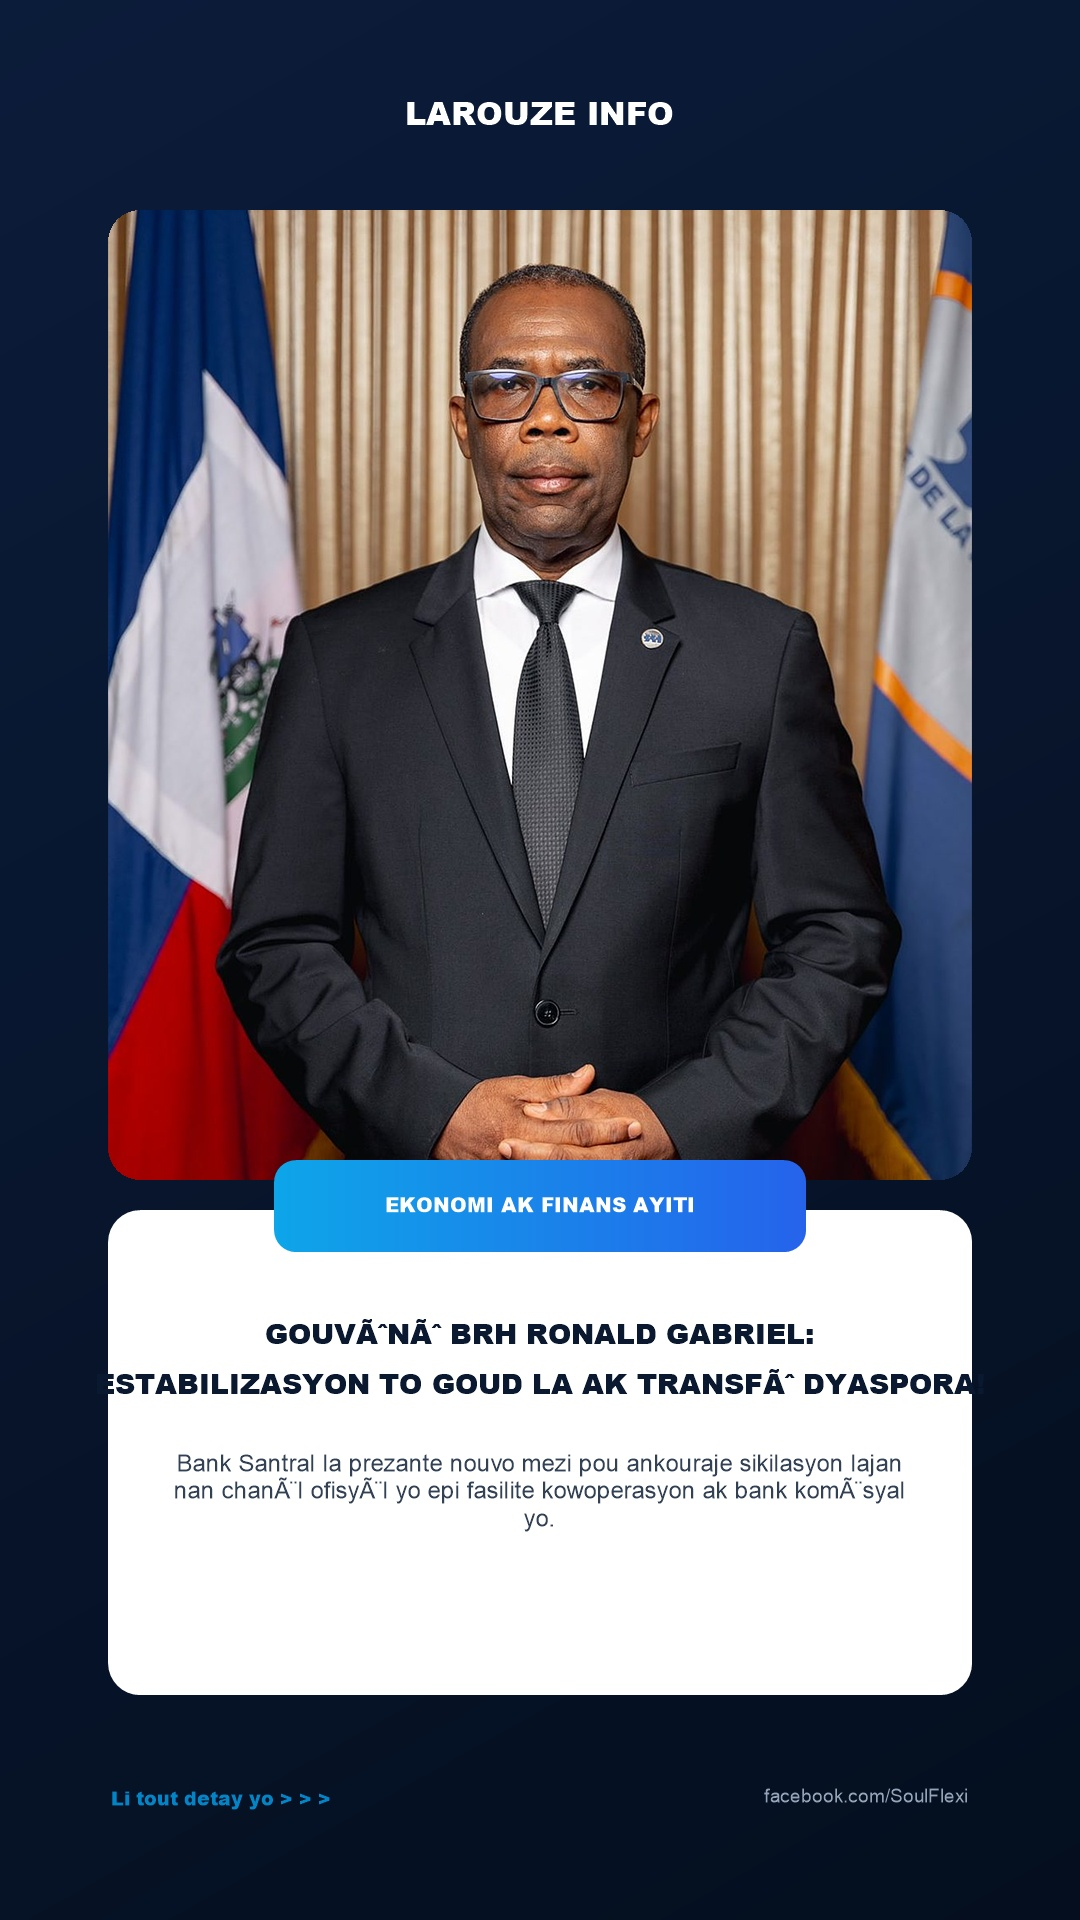
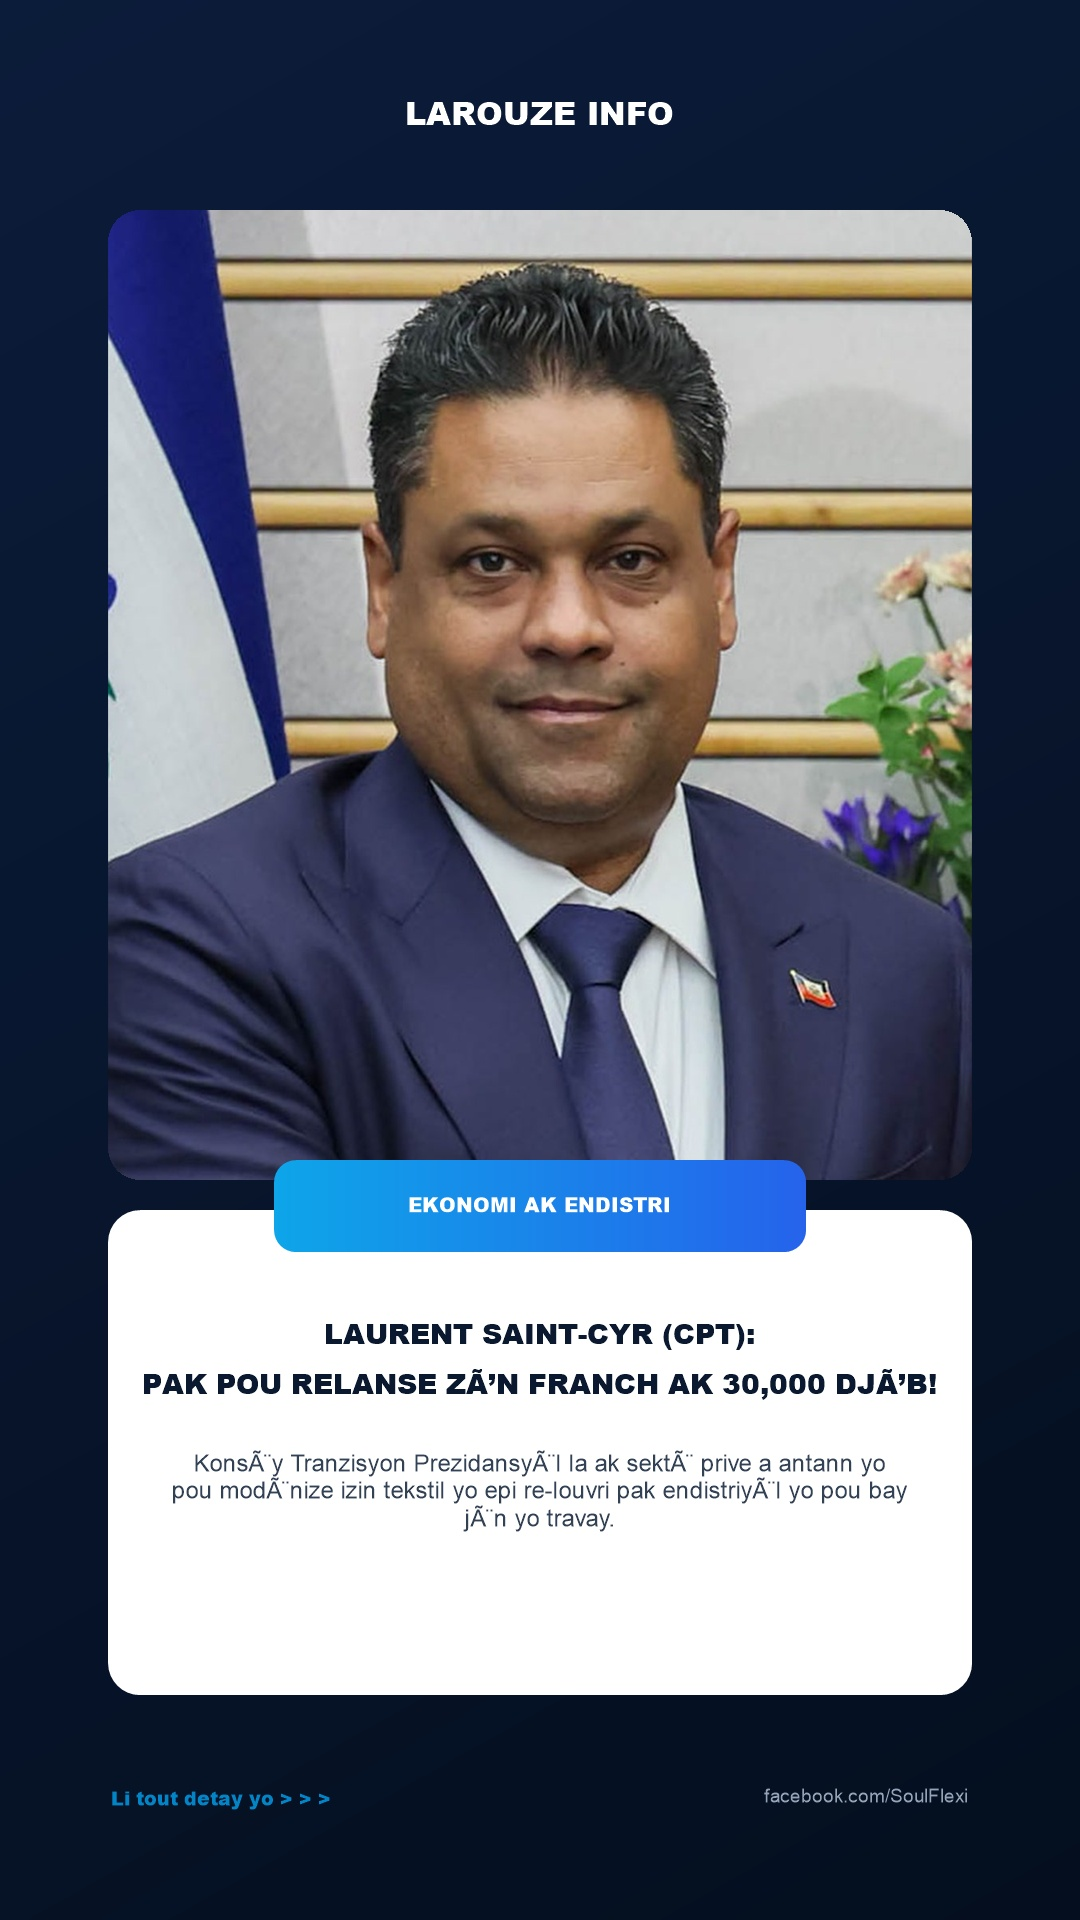
🚀 Deplwaman Lò 8: Afish HD, Tèks Kreyòl ak Sit Wèb Mobil Larouze INFO

diff --git a/index.html b/index.html
@@ -143,21 +143,21 @@
         <img src="posts/post_1/afish.jpg" alt="Afish 1" loading="lazy" />
       </div>
       <div class="card-body">
-        <h3 class="card-title">GOUVÈNÈ BANK SANTRAAL AYITI A ANONSE MEZI ESTRATEJIK POU ESTABILIZE TO CHANJ LA AK PWOTEJE LAJAN TRANSFÈ DYASPORA YO!</h3>
-        <p class="card-desc">Gouvènè Bank Repiblik d Ayiti (BRH), Ronald Gabriel, fè konnen enstitisyon an ap mete tout mekanis an plas pou kenbe estabilite to goud la fas ak dola ameriken an. Li souliye nesesite pou tout lajan transfè k ap rantre nan peyi a sikile nan sikwi fòmèl la pou pèmèt fanmi yo jwenn tout valè lajan yo san presyon move pratik sou mache a.</p>
+        <h3 class="card-title">LAURENT SAINT-CYR AK SEKTÈ PRIVE A SIYEN YON GWO PWOJÈ POU RELANSE ZÒN FRANCH YO EPI KREYE PLIS PASE 30,000 NOUVO DJÒB!</h3>
+        <p class="card-desc">Manm Konsèy Tranzisyon Prezidansyèl la (CPT), Laurent Saint-Cyr, anonse yon gwo patenarya estratejik ant leta ak envestisè nasyonal kou entènasyonal pou bay pak endistriyèl yo yon nouvo souf. Pwogram sa a vize re-louvri faktori ki te fèmen yo epi garanti sekirite travayè yo.</p>
         <div class="card-actions">
           <button class="btn btn-copy" onclick="copyText(1)">📋 KOPYE TÈKS LA</button>
           <a class="btn btn-dl" href="posts/post_1/afish.jpg" download="Larouze_Post_1.jpg">📥 TELECHAJE AFISH</a>
         </div>
-        <textarea id="text-1" class="hidden-text">📌 GOUVÈNÈ BANK SANTRAAL AYITI A ANONSE MEZI ESTRATEJIK POU ESTABILIZE TO CHANJ LA AK PWOTEJE LAJAN TRANSFÈ DYASPORA YO!
+        <textarea id="text-1" class="hidden-text">📌 LAURENT SAINT-CYR AK SEKTÈ PRIVE A SIYEN YON GWO PWOJÈ POU RELANSE ZÒN FRANCH YO EPI KREYE PLIS PASE 30,000 NOUVO DJÒB!
 
-Gouvènè Bank Repiblik d Ayiti (BRH), Ronald Gabriel, fè konnen enstitisyon an ap mete tout mekanis an plas pou kenbe estabilite to goud la fas ak dola ameriken an. Li souliye nesesite pou tout lajan transfè k ap rantre nan peyi a sikile nan sikwi fòmèl la pou pèmèt fanmi yo jwenn tout valè lajan yo san presyon move pratik sou mache a.
+Manm Konsèy Tranzisyon Prezidansyèl la (CPT), Laurent Saint-Cyr, anonse yon gwo patenarya estratejik ant leta ak envestisè nasyonal kou entènasyonal pou bay pak endistriyèl yo yon nouvo souf. Pwogram sa a vize re-louvri faktori ki te fèmen yo epi garanti sekirite travayè yo.
 
-Gabriel envite bank komèsyal yo travay koudakoud ak BRH pou fasilite kredi pou ti ak mwayen antrepriz yo, sa ki ka ede kreye plis travay lokal epi bese enflasyon an.
+Saint-Cyr fè konnen se sèlman lè jèn yo jwenn bonjan travay ak estabilite ekonomik peyi a ap ka soti nan kriz sa a, pandan gouvènman an ap negosye pou pwolonje avantaj komèsyal HOPE/HELP yo.
 
-Kisa ou panse sou desizyon sa a pou ekonomi peyi a? Pataje opinyon w anba a!
+Èske w panse relans izin yo ka ede ekonomi an reprann fòs byen vit? Di nou sa w panse!
 
-👉 Pou tout gwo nouvèl sou ekonomi ak finans Ayiti, swiv Larouze INFO sou facebook.com/SoulFlexi!</textarea>
+👉 Swiv tout gwo devlopman sou travay ak ekonomi Ayiti sou paj facebook.com/SoulFlexi!</textarea>
       </div>
     </div>
   
@@ -167,21 +167,21 @@ Kisa ou panse sou desizyon sa a pou ekonomi peyi a? Pataje opinyon w anba a!
         <img src="posts/post_2/afish.jpg" alt="Afish 2" loading="lazy" />
       </div>
       <div class="card-body">
-        <h3 class="card-title">PREMYE MINIS GASTON BROWNE MANDE GRAN PUISANS YO ANILE DÈT KLIMATIK YO EPI ANKOURAJE KONEKSYON AERYEN NAN KARAYIB LA!</h3>
-        <p class="card-desc">Lidè Antigua ak Barbuda a, Gaston Browne, lanse yon gwo pledwaye devan kominote entènasyonal la pou mande jistis klimatik pou ti peyi zile yo ki pa responsab polisyon mondyal la men ki sibi gwo dega chak fwa gen siklòn.</p>
+        <h3 class="card-title">PREMYE MINIS BAHAMAS PHILIP DAVIS MANDE YON SERE BOULON TOTAL SOU KÒT KARAYIB LA POU BLOKE BATO TRAFIK ZAM YO!</h3>
+        <p class="card-desc">Nan yon diskou devan lidè CARICOM yo, Premye Minis Bahamas la, Philip "Brave" Davis, atire atansyon sou gwo danje trafik zam san kontwòl reprezante pou lapè ak sekirite tout peyi nan rejyon an.</p>
         <div class="card-actions">
           <button class="btn btn-copy" onclick="copyText(2)">📋 KOPYE TÈKS LA</button>
           <a class="btn btn-dl" href="posts/post_2/afish.jpg" download="Larouze_Post_2.jpg">📥 TELECHAJE AFISH</a>
         </div>
-        <textarea id="text-2" class="hidden-text">📌 PREMYE MINIS GASTON BROWNE MANDE GRAN PUISANS YO ANILE DÈT KLIMATIK YO EPI ANKOURAJE KONEKSYON AERYEN NAN KARAYIB LA!
+        <textarea id="text-2" class="hidden-text">📌 PREMYE MINIS BAHAMAS PHILIP DAVIS MANDE YON SERE BOULON TOTAL SOU KÒT KARAYIB LA POU BLOKE BATO TRAFIK ZAM YO!
 
-Lidè Antigua ak Barbuda a, Gaston Browne, lanse yon gwo pledwaye devan kominote entènasyonal la pou mande jistis klimatik pou ti peyi zile yo ki pa responsab polisyon mondyal la men ki sibi gwo dega chak fwa gen siklòn.
+Nan yon diskou devan lidè CARICOM yo, Premye Minis Bahamas la, Philip "Brave" Davis, atire atansyon sou gwo danje trafik zam san kontwòl reprezante pou lapè ak sekirite tout peyi nan rejyon an.
 
-Browne eksplike tou ke relans konpayi avyon rejyonal LIAT 2020 se yon nesesite vital pou pèmèt sitwayen Karayib yo vwayaje fasilman ant zile yo epi ranfòse komès ak touris san depanse gwo lajan nan tranzit.
+Davis pwopoze pou gad kòt tout zile yo pataje enfòmasyon an dirèk epi fè patwouy ansanm pou kwaze tout bato sispèk k ap transpòte zam ilegal ki vin alimente ensekirite nan Karayib la.
 
-Èske w panse vwayaje ant zile Karayib yo ta dwe vin pi fasil? Ekri komantè w!
+Kisa w panse de inisyativ sa a pou ranfòse lapè nan rejyon an? Ban nou opinyon w!
 
-👉 Rete branche sou facebook.com/SoulFlexi pou w pa manke anyen nan sa k ap pase nan Karayib la!</textarea>
+👉 Rete branche sou facebook.com/SoulFlexi pou w pa manke anyen nan aktyalite rejyonal la!</textarea>
       </div>
     </div>
   
@@ -191,21 +191,21 @@ Browne eksplike tou ke relans konpayi avyon rejyonal LIAT 2020 se yon nesesite v
         <img src="posts/post_3/afish.jpg" alt="Afish 3" loading="lazy" />
       </div>
       <div class="card-body">
-        <h3 class="card-title">VÈSO ESPASYAL PARKER SOLAR PROBE NASA AP BAT YON REKÒ ISTORIK PANDAN L AP KOURI PI PRE SOU FAS SOLÈY LA NAN TOUT ISTWA LIMANITE!</h3>
-        <p class="card-desc">Ekipe ak yon boukliye tèmik revolisyonè an kabòn konpoze ki reziste plis pase 1,400 degre chalè, sond Parker la ap navige nan yon vitès estwòdinè de 690,000 km/h pou travèse kouwòn solè a.</p>
+        <h3 class="card-title">ANALIZ ECHANTIYON ASTEROYID BENNU NASA KONFIME PREZANS DLO AK MATYÈ ÒGANIK KI GEN PLIS PASE 4.5 MILYA LAME!</h3>
+        <p class="card-desc">Rezilta rechèch syantifik sou echantiyon kapsil OSIRIS-REx la te rapòte sou Latè montre wòch asteroyid sa a chaje ak kabòn ak mineral ki te fòme anba prezans dlo likid nan tout premye tan sistèm solè a te kòmanse bati.</p>
         <div class="card-actions">
           <button class="btn btn-copy" onclick="copyText(3)">📋 KOPYE TÈKS LA</button>
           <a class="btn btn-dl" href="posts/post_3/afish.jpg" download="Larouze_Post_3.jpg">📥 TELECHAJE AFISH</a>
         </div>
-        <textarea id="text-3" class="hidden-text">📌 VÈSO ESPASYAL PARKER SOLAR PROBE NASA AP BAT YON REKÒ ISTORIK PANDAN L AP KOURI PI PRE SOU FAS SOLÈY LA NAN TOUT ISTWA LIMANITE!
+        <textarea id="text-3" class="hidden-text">📌 ANALIZ ECHANTIYON ASTEROYID BENNU NASA KONFIME PREZANS DLO AK MATYÈ ÒGANIK KI GEN PLIS PASE 4.5 MILYA LAME!
 
-Ekipe ak yon boukliye tèmik revolisyonè an kabòn konpoze ki reziste plis pase 1,400 degre chalè, sond Parker la ap navige nan yon vitès estwòdinè de 690,000 km/h pou travèse kouwòn solè a.
+Rezilta rechèch syantifik sou echantiyon kapsil OSIRIS-REx la te rapòte sou Latè montre wòch asteroyid sa a chaje ak kabòn ak mineral ki te fòme anba prezans dlo likid nan tout premye tan sistèm solè a te kòmanse bati.
 
-Misyon syantifik sa a ap pèmèt astwonòm yo konprann kijan van solè yo ak gwo tanpèt mayetik yo fòme, yon fason pou pwoteje satelit kominikasyon yo ak rezo elektrik yo sou Latè kont pann jeneral.
+Astwofizisyen yo deklare dekouvèt ekstraòdinè sa a ap ede nou konprann kijan premye engredyan lavi yo te ka rive sou Latè gras ak kolizyon ansyen komèt ak asteroyid yo.
 
-Èske w sezi wè nivo teknoloji lèzòm rive devlope pou manyen Solèy la? Ban nou avi w!
+Èske w panse gen lòt mond ki gen dlo ak lavi nan linivè a? Ekri komantè w anba a!
 
-👉 Swiv tout gwo mèvèy syans ak lespas yo sou paj facebook.com/SoulFlexi!</textarea>
+👉 Swiv tout bèl reyalizasyon syans ak lespas yo sou facebook.com/SoulFlexi!</textarea>
       </div>
     </div>
   
@@ -215,21 +215,21 @@ Misyon syantifik sa a ap pèmèt astwonòm yo konprann kijan van solè yo ak gwo
         <img src="posts/post_4/afish.jpg" alt="Afish 4" loading="lazy" />
       </div>
       <div class="card-body">
-        <h3 class="card-title">SEKRETÈ JENERAL UIT DOREEN BOGDAN-MARTIN METE SOU PYE YON GWO PWOGRAM MONDIAL POU KONEKTE TOUT LEKÒL AK REZO ENTÈNÈT LA!</h3>
-        <p class="card-desc">Chèf Inyon Entènasyonal Telekominikasyon (UIT) nan Nasyonzini, Doreen Bogdan-Martin, lanse yon apèl ijan pou gouvènman yo ak konpayi teknoloji yo asosye pou mennen koneksyon satelit gwo vitès nan tout zòn ki pi lwen yo.</p>
+        <h3 class="card-title">DIREKTÈ JENERAL PWOGRAM ALIMANTÈ MONDIAL LA CINDY MCCAIN MOBILIZE ASISTANS IJAN POU FANMI KI NAN NESESITE!</h3>
+        <p class="card-desc">Chèf Pwogram Alimantè Mondyal (PAM / WFP), Cindy McCain, lanse yon gwo kout klanbwon pou mande donatè entènasyonal yo pa bliye popilasyon k ap sibi gwo grangou ak kriz sekirite yo.</p>
         <div class="card-actions">
           <button class="btn btn-copy" onclick="copyText(4)">📋 KOPYE TÈKS LA</button>
           <a class="btn btn-dl" href="posts/post_4/afish.jpg" download="Larouze_Post_4.jpg">📥 TELECHAJE AFISH</a>
         </div>
-        <textarea id="text-4" class="hidden-text">📌 SEKRETÈ JENERAL UIT DOREEN BOGDAN-MARTIN METE SOU PYE YON GWO PWOGRAM MONDIAL POU KONEKTE TOUT LEKÒL AK REZO ENTÈNÈT LA!
+        <textarea id="text-4" class="hidden-text">📌 DIREKTÈ JENERAL PWOGRAM ALIMANTÈ MONDIAL LA CINDY MCCAIN MOBILIZE ASISTANS IJAN POU FANMI KI NAN NESESITE!
 
-Chèf Inyon Entènasyonal Telekominikasyon (UIT) nan Nasyonzini, Doreen Bogdan-Martin, lanse yon apèl ijan pou gouvènman yo ak konpayi teknoloji yo asosye pou mennen koneksyon satelit gwo vitès nan tout zòn ki pi lwen yo.
+Chèf Pwogram Alimantè Mondyal (PAM / WFP), Cindy McCain, lanse yon gwo kout klanbwon pou mande donatè entènasyonal yo pa bliye popilasyon k ap sibi gwo grangou ak kriz sekirite yo.
 
-Bogdan-Martin deklare edikasyon modèn pa ka egziste san aksè nimerik, epi li pa akseptab pou plizyè santèn milyon timoun nan zòn riral ak peyi an devlopman rete koupe ak rès mond lan.
+McCain fè konnen PAM ap ranfòse chèn distribisyon manje ak transfè lajan kach pou pèmèt timoun yo jwenn manje nan lekòl yo epi ede manman pitit yo kenbe tèt yo anwo pandan moman difisil sa a.
 
-Kijan ou wè enpòtans entènèt la nan edikasyon jèn yo jodi a? Pataje panse w nan kòmantè yo!
+Kijan ou wè wòl èd imanitè a nan devlopman dirab pou peyi yo? Pataje panse w!
 
-👉 Pou tout aktyalite teknoloji ak devlopman mondyal, swiv nou sou facebook.com/SoulFlexi!</textarea>
+👉 Pou tout nouvèl sou sekirite alimantè ak devlopman mondyal, swiv nou sou facebook.com/SoulFlexi!</textarea>
       </div>
     </div>
   
@@ -239,21 +239,21 @@ Kijan ou wè enpòtans entènèt la nan edikasyon jèn yo jodi a? Pataje panse w
         <img src="posts/post_5/afish.jpg" alt="Afish 5" loading="lazy" />
       </div>
       <div class="card-body">
-        <h3 class="card-title">FRITZ ALPHONSE JEAN MANDE YON GRAN TÈT ANSANM NASYONAL POU RETABLI SEKIRITE A EPI PLANIFYE ELEKSYON TRANSPARAN!</h3>
-        <p class="card-desc">Nan yon mesaj enpòtan bay nasyon an, manm Konsèy Tranzisyon Prezidansyèl la (CPT), Fritz Alphonse Jean, mete aksan sou bezwen pou tout sektè politik, sosyete sivil ak dyaspora a chita ansanm pou jwenn yon solisyon dirab pou lapè nan peyi a.</p>
+        <h3 class="card-title">EDGARD LEBLANC FILS ANONSE YON PLAN ESTRATEJIK POU LIBERE GWO AKS WOUT NASYONAL YO POU TRAVAYÈ AK PWODIKTÈ YO!</h3>
+        <p class="card-desc">Manm Konsèy Tranzisyon Prezidansyèl la (CPT), Edgard Leblanc Fils, fè konnen leta ap deplwaye tout mwayen taktik nesesè an kolaborasyon ak fòs sekirite yo pou debloke Wout Nasyonal #1 ak #2.</p>
         <div class="card-actions">
           <button class="btn btn-copy" onclick="copyText(5)">📋 KOPYE TÈKS LA</button>
           <a class="btn btn-dl" href="posts/post_5/afish.jpg" download="Larouze_Post_5.jpg">📥 TELECHAJE AFISH</a>
         </div>
-        <textarea id="text-5" class="hidden-text">📌 FRITZ ALPHONSE JEAN MANDE YON GRAN TÈT ANSANM NASYONAL POU RETABLI SEKIRITE A EPI PLANIFYE ELEKSYON TRANSPARAN!
+        <textarea id="text-5" class="hidden-text">📌 EDGARD LEBLANC FILS ANONSE YON PLAN ESTRATEJIK POU LIBERE GWO AKS WOUT NASYONAL YO POU TRAVAYÈ AK PWODIKTÈ YO!
 
-Nan yon mesaj enpòtan bay nasyon an, manm Konsèy Tranzisyon Prezidansyèl la (CPT), Fritz Alphonse Jean, mete aksan sou bezwen pou tout sektè politik, sosyete sivil ak dyaspora a chita ansanm pou jwenn yon solisyon dirab pou lapè nan peyi a.
+Manm Konsèy Tranzisyon Prezidansyèl la (CPT), Edgard Leblanc Fils, fè konnen leta ap deplwaye tout mwayen taktik nesesè an kolaborasyon ak fòs sekirite yo pou debloke Wout Nasyonal #1 ak #2.
 
-Ekonomis lan souliye ke san yon sekirite reyèl ak yon jistis ki kanpe djanm, pèp la pap ka egzèse dwa demokratik li pou vote lidè li chwazi yo nan trankilite.
+Objektif prensipal la se pèmèt kiltivatè nan zòn pwovens yo transpòte bannann, mayi, pwa ak lòt danre agrikòl yo rantre nan kapital la san kè sote, pou fè pri manje yo bese pou tout popilasyon an.
 
-Èske w panse dyalòg nasyonal se sèl chemen pou Ayiti reprann souf? Di sa w panse nan espas anba a!
+Èske w kwè libere wout yo se kle pou fè pri manje yo bese nan mache yo? Ban nou avi w!
 
-👉 Rete enfòme sou tout sa k ap pase sou sèn politik nasyonal la sou facebook.com/SoulFlexi!</textarea>
+👉 Rete enfòme sou tout mezi sekirite ak ekonomi peyi a sou facebook.com/SoulFlexi!</textarea>
       </div>
     </div>
   
